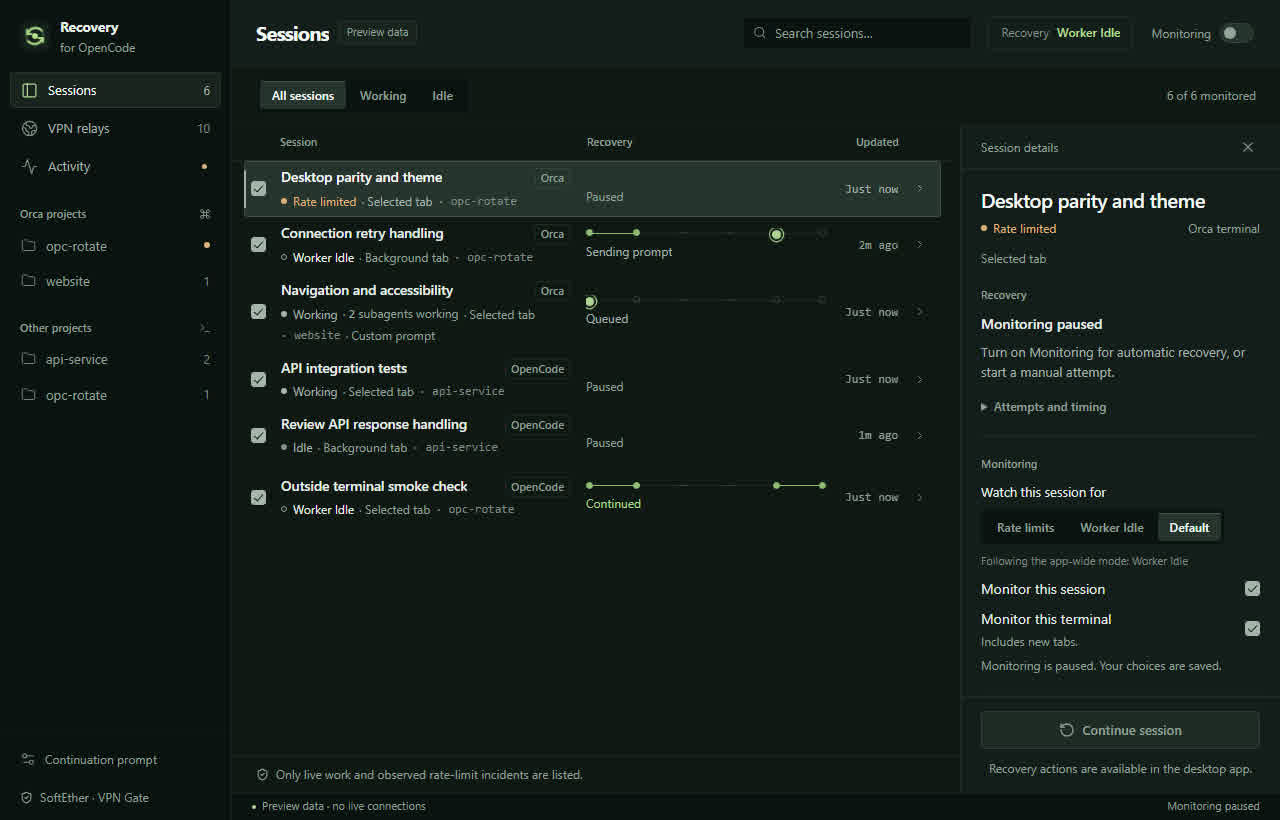
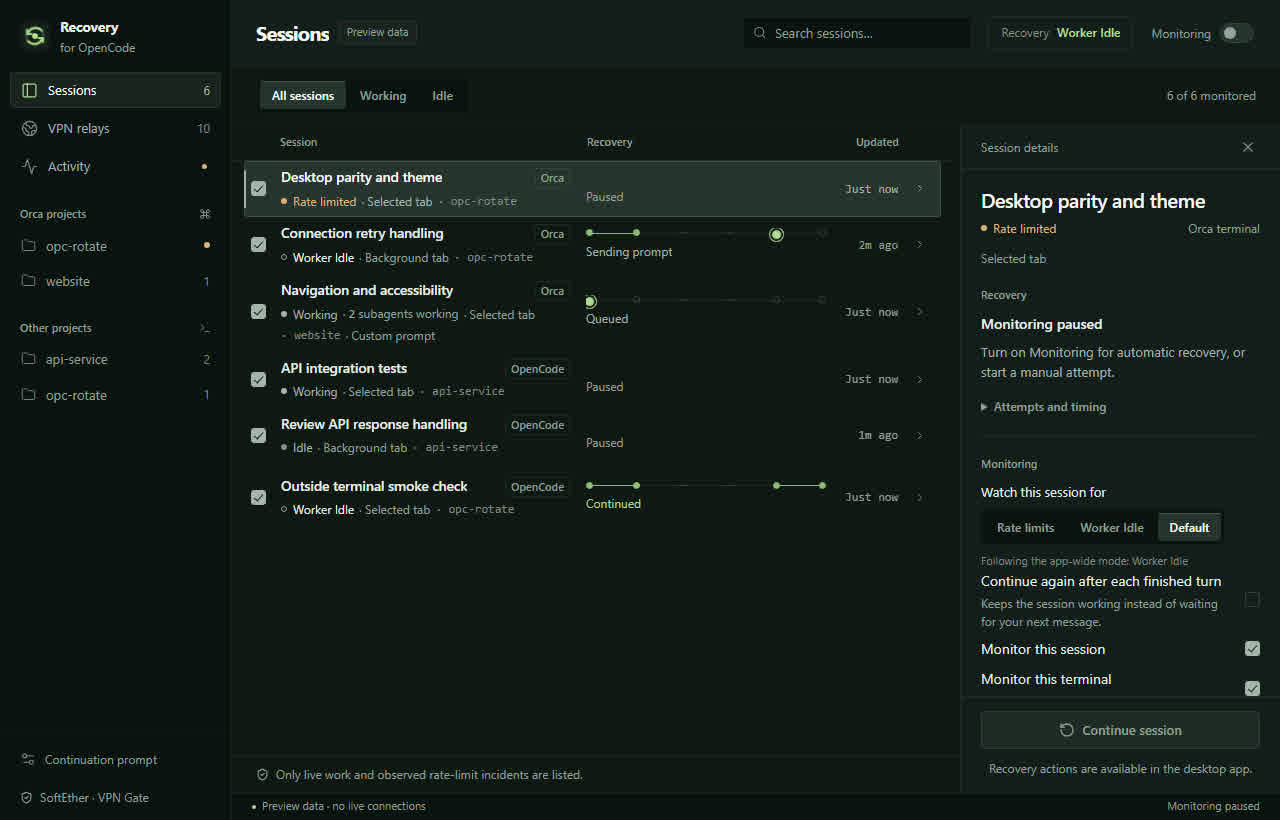
docs: record the continue-after-each-turn option

Changed region(s): [[0.75, 0.7012, 1.0, 0.8537], [0.9688, 0.8232, 1.0, 0.8537], [0.9688, 0.7622, 1.0, 0.7927]]

diff --git a/docs/ROADMAP.md b/docs/ROADMAP.md
@@ -30,6 +30,7 @@ Outcome: the Windows dashboard can recover an affected existing session through 
 - [x] Verify project and status filters, arrow-key selection, prompt editing, focus wrapping and Escape, relay sorting and preferences, search, and activity filters in the browser preview. Fixture interactions stay in memory; production assets contain no fixture identifiers or hostnames.
 - [x] Keep a continuation queued on the verified IP when its target is busy; retry prompt delivery after it becomes idle without rotating again. Covered by the recovery scheduling test and controller state review.
 - [x] Add a second watcher mode for finished turns. Each session is watched for **Rate limits** or **Worker Idle**, chosen per session or for all sessions, with the session choice winning over the app-wide default. A Worker Idle recovery sends the continuation prompt only: no relay is connected, no public IP changes, and none of the two IP changes are used, and its route line leaves out the relay and IP-verification stations. The live plugin reports a cleanly finished turn, the number of child sessions still executing, and the operator's own last message, so a stop is continued once and only again after new operator input; the shared-service fallback keeps its previous behavior and never reports a finished turn. Rust tests cover the watcher precedence, the queue without an IP change, one continuation per stop, the exclusion of a rate-limited session in Worker Idle mode, and the route's necessity; 11 Node plugin tests cover the finished-turn and stop-key detection. The browser preview verified both modes, the inspector controls, the **Worker Idle** activity state, the subagent count, and the route bar's disappearance while nothing depends on the VPN route. The production build and the full test suite pass. Live behavior against a real OpenCode client is not verified and stays open below.
+- [x] Let a session be continued after every finished turn. A session was continued once per message the operator wrote, so the app's own prompt did not count as new input and a long-running session went quiet after its own turn. The session inspector now has **Continue again after each finished turn**, which identifies the stop by the finished turn rather than by the operator's message, so the session is continued after every turn. The plugin keeps the last operator message it saw, so a long turn cannot push that message out of the recent list and make the stop key disappear, and it reports a request refused before any delivery as refused, so the request is sent again instead of being recorded as an uncertain delivery. A Node test and a Rust test cover the new behaviour; 12 Node plugin tests and 51 Rust tests pass, and `npm run build` passes.
 - [x] Only record a stop as continued when the prompt was delivered. The app recorded the stop even when the live client could not take the prompt, and the stage still read **Waiting to continue**, so a session that was never continued was left looking finished and the app would not try again. The stop is no longer recorded, the session stays queued, the next scan tries again, and the operator can start it by hand. The record of continued stops is cleared once, so a session held by the old behavior is continued again, and the recovery column and the status bar name the state instead of reading as if nothing had happened. A Rust test covers the one-time clear; 11 Node plugin tests and 50 Rust tests pass, and `npm run build` passes.
 - [x] Say why a quiet session is not being continued again. A stop is continued once, and only again after the operator sends new input, so a session that was already continued sits idle with nothing left to do. The recovery column read **Prompt sent**, which reads like a finished recovery rather than a session waiting for the operator, and the inspector's plain text still spoke about provider errors. A session that has already been continued for the stop it is on now reads **Continued**, the inspector says **Continued once for this stop. Send a new message in the session and it will be continued again.**, the plain waiting text follows the watcher mode instead of always naming provider errors, and the monitoring note states the rule rather than a status that looks live. A Rust test covers the mark; 11 Node plugin tests and 49 Rust tests pass, and `npm run build` passes.
 - [x] Keep one continuation prompt. The app used to keep a default prompt per watcher mode, and the editor on screen did not always show the prompt that was actually sent: the sidebar edited the rate-limit prompt while a **Worker Idle** session was sent the other one. There is now one default prompt, "Continue", used by both modes, and the session inspector shows the effective prompt with plain wording: "Used by every session" with **Edit the default**, or "This session's own prompt" with **Use the default**. The sidebar and the inspector now edit the same thing, and the prompt editor no longer asks which mode it belongs to. A prompt saved under the older design is replaced once and the replacement is written to disk, so it happens once and a prompt written afterwards survives a restart; a session's own prompt is untouched. The watcher choice in the inspector also stops stacking: the label, the control and the note sit on their own lines, so a mode button cannot stretch. Rust tests cover the one-time prompt migration; 11 Node plugin tests and 48 Rust tests pass, and `npm run build` passes.

diff --git a/docs/CONTEXT.md b/docs/CONTEXT.md
@@ -65,7 +65,7 @@ A shared OpenCode service that has stopped now reports itself as not running ins
 
 There is now one continuation prompt. The app used to keep a default per watcher mode, and the editor on screen did not always show the prompt that was sent: the sidebar edited the rate-limit prompt while a **Worker Idle** session received the other one. The default is "Continue", used by both modes, and the session inspector shows the effective prompt with plain wording: "Used by every session" beside **Edit the default**, or "This session's own prompt" beside **Use the default**. The sidebar and the inspector now edit the same prompt. A prompt saved under the older design is replaced once, and a session's own prompt is untouched. The watcher choice in the inspector also stops stacking: the label, the control and the note sit on their own lines, so a mode button cannot stretch. The update passed **11 Node and 48 Rust tests** and the production frontend build.
 
-A stop is only recorded as continued when the prompt was actually delivered. The app used to record it even when the live client could not take the prompt, which left a session that was never continued looking finished, and the record survived a restart while the progress did not. A session that cannot be continued now stays queued, the stage reads **Waiting for client**, the next scan tries again, and the operator can start it by hand. The record of continued stops is cleared once, so a session held by the old behavior is continued again. A session that has already been continued for the stop it is on now says so. The app continues a finished turn once and waits for new operator input, and the interface used to leave that session reading **Worker Idle** beside **Prompt sent**, which looked like an unfinished recovery. The controller marks a session whose stop key has already been handled, the recovery column reads **Continued**, and the inspector explains that the session is continued again after a new message. The waiting text follows the watcher mode instead of always naming provider errors, and the monitoring note states the rule rather than a status that reads as live. The update passed **11 Node and 49 Rust tests** and the production frontend build.
+A stop is only recorded as continued when the prompt was actually delivered. The app used to record it even when the live client could not take the prompt, which left a session that was never continued looking finished, and the record survived a restart while the progress did not. A session that cannot be continued now stays queued, the stage reads **Waiting for client**, the next scan tries again, and the operator can start it by hand. The record of continued stops is cleared once, so a session held by the old behavior is continued again. A session watched for finished turns is continued once per operator message, and the app's own prompt does not count as new input. The session inspector can change that for one session with **Continue again after each finished turn**, which identifies the stop by the turn instead of by the operator's message, so the session is continued after every finished turn. The plugin now also keeps the last operator message it saw, so a long turn cannot push the operator's message out of the recent list and make the stop key disappear, and a request the client refuses before it delivers anything is reported as refused rather than as an uncertain delivery, so it is sent again. A session that has already been continued for the stop it is on now says so. The app continues a finished turn once and waits for new operator input, and the interface used to leave that session reading **Worker Idle** beside **Prompt sent**, which looked like an unfinished recovery. The controller marks a session whose stop key has already been handled, the recovery column reads **Continued**, and the inspector explains that the session is continued again after a new message. The waiting text follows the watcher mode instead of always naming provider errors, and the monitoring note states the rule rather than a status that reads as live. The update passed **11 Node and 49 Rust tests** and the production frontend build.
 
 The pre-release baseline passed **9 Node plugin tests and 31 Rust tests**, TypeScript/Vite build, and NSIS packaging. Windows helper coverage verifies no console handle while output is captured. Browser preview checks covered the requested project hierarchy, monitoring controls, keyboard behavior, empty states, desktop sizes, and inspected text contrast. Native checks confirmed live idle/background tabs and the free-tier provider error without triggering recovery.
 

diff --git a/PRODUCT.md b/PRODUCT.md
@@ -47,7 +47,8 @@ The mechanism a neighboring product could not copy truthfully is exactness of de
 - A shared service that is gone is reported as gone rather than as a failed request, and it cannot protect any work: a refused connection means no shared-service session is live, so it does not block a route change. A service that answers and reports an error, or that times out, still blocks one.
 - A session that finished its turn is reported as **Worker Idle**, together with the number of child sessions still executing. Both come from the live CLI plugin alone: only that client can see a session's child sessions and can tell the operator's own message apart from one the app delivered. The shared-service fallback keeps its previous behavior and reports only rate limits, busy, and idle — never a finished turn.
 - The plugin remembers the prompts it delivered itself, so a stop is continued once, and only again after the operator sends new input. A session that has already been continued for the stop it is on says **Continued**, and the inspector explains that it waits for new operator input, so a quiet session never looks unhandled.
-- Only a delivered prompt marks a stop as continued. When the live client cannot take the prompt, the session stays queued and the next scan tries again, the stage reads **Waiting for client**, and the operator can start it by hand.
+- Only a delivered prompt marks a stop as continued. When the live client cannot take the prompt, the session stays queued and the next scan tries again, the stage reads **Waiting for client**, and the operator can start it by hand. A request the client refuses before it delivers anything is not a delivery, so it is sent again.
+- A session is continued once per operator message by default: the app's own prompt is not new operator input, so the session waits for the next message. **Continue again after each finished turn** in the session inspector changes that for one session, and it is then continued after every finished turn, which keeps a long-running session working.
 
 **Monitoring selection**
 - Rules exist per session and per terminal. A session override wins over its terminal rule; a new tab inherits its terminal rule.

diff --git a/AGENTS.md b/AGENTS.md
@@ -43,7 +43,7 @@ npm run release:build
 
 `npm run build` includes TypeScript checking. `npm test` runs the Node presence-plugin tests and locked Rust tests. The Tauri build creates an NSIS installer under `src-tauri/target/release/bundle/nsis/`. `npm run release:build` checks versions and fixture exclusion, builds with the Cargo lockfile, then copies the installer and SHA-256 checksum into ignored `release-artifacts/v<version>/`. Toolchain versions are pinned in `.node-version` and `rust-toolchain.toml`. See `docs/RELEASING.md` for manual acceptance gaps before publication.
 `npm run tauri -- dev` selects an available port from 1420 to 1499 and passes it to both Vite and Tauri; use this command for desktop development when 1420 may be occupied.
-For populated browser UI checks, use the Vite URL with `?preview=1`; it shows the shipped default state, Worker Idle mode with no route bar, a continuation in flight, one queued, and one already continued and waiting for new input. Add `&rate=1` for Rate limits mode with the route bar and the Provider errors filter visible, `&recovery=1` for Rate limits mode with the route diagram in its four states, `&empty=1` for empty states, and `&view=relays` or `&view=activity` for the other two views. Preview edits are local to the page, and fixture data is excluded from release builds. Keep sample data clearly labeled and isolated from live recovery.
+For populated browser UI checks, use the Vite URL with `?preview=1`; it shows the shipped default state, Worker Idle mode with no route bar, a continuation in flight, one queued, and one already continued and set to continue after every finished turn. Add `&rate=1` for Rate limits mode with the route bar and the Provider errors filter visible, `&recovery=1` for Rate limits mode with the route diagram in its four states, `&empty=1` for empty states, and `&view=relays` or `&view=activity` for the other two views. Preview edits are local to the page, and fixture data is excluded from release builds. Keep sample data clearly labeled and isolated from live recovery.
 
 ## Boundaries
 

diff --git a/docs/USAGE.md b/docs/USAGE.md
@@ -40,6 +40,8 @@ A finished turn is continued **once**. After the prompt is delivered the session
 
 Only a prompt that was actually delivered counts as a continuation. If the session's client cannot take the prompt, the stage reads **Waiting for client**, the session stays queued, and Recovery tries again on the next scan. **Continue session** in the inspector starts it by hand at any time.
 
+**Continue again after each finished turn**, in the session inspector's **Monitoring** section, changes the rule for that session. By default a session is continued once per message you write, so the app's own prompt does not count as new input and the session waits for you. With the option on, the session is continued after every finished turn instead, which keeps a long job working without you. Turn it on for the sessions that should run on their own, and leave it off for the ones that should wait for you.
+
 The two modes are exclusive per session. A session watched for finished turns that hits a rate limit is still shown as **Rate limited**, but it is not recovered automatically, because a prompt cannot clear a rate limit. A manual recovery follows the session's mode: **Continue session** queues a prompt-only continuation, and **Recover session** queues a route change.
 
 Changing one session's mode cancels the other kind of work queued for it. A session switched to **Worker Idle** no longer keeps a queued route change, and one switched to **Rate limits** no longer keeps a queued continuation.

diff --git a/DESIGN.md b/DESIGN.md
@@ -463,6 +463,7 @@ Borders are directional where they appear at all: a dark top edge and a faint li
 ### Watcher Choice
 - **Shape:** two controls. The app-wide one is a single button in the toolbar, immediately beside the Monitoring switch, reading **Recovery** followed by the current mode. The per-session one is a three-option segmented control in the inspector: **Rate limits**, **Worker Idle**, **Default**, with a note that says whether the session is following the app-wide mode or has its own. The label, the control and the note each sit on their own line, so nothing in the row can stretch and a mode button never grows a tall block.
 - **Rule:** the two modes are **Rate limits** and **Worker Idle**, and the choice is never a colour. A watcher that does not touch the network is also the one that removes the VPN route from the screen, and the interface says so by having nothing to show.
+- **Continue again after each finished turn:** a plain checkbox below the choice, with the reason in one line. It changes when a session is continued again, so the sentence beside it says which rule applies.
 
 ### Continuation Prompt
 - **Shape:** one prompt, not one per mode. The inspector shows the prompt that will actually be sent, with a plain line beneath it: **Used by every session** beside **Edit the default**, or **This session's own prompt** beside **Use the default**.
